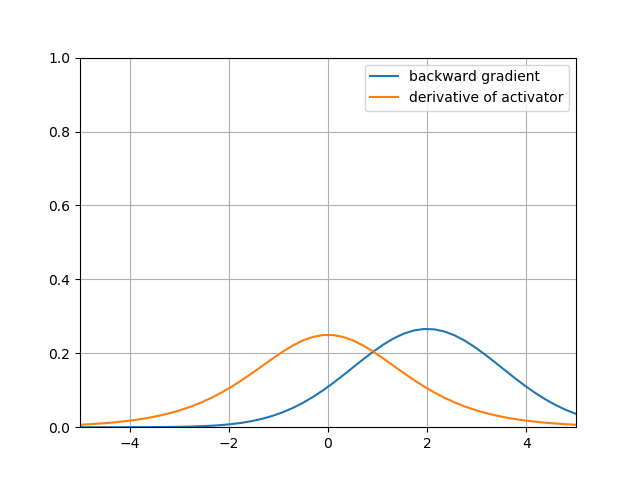
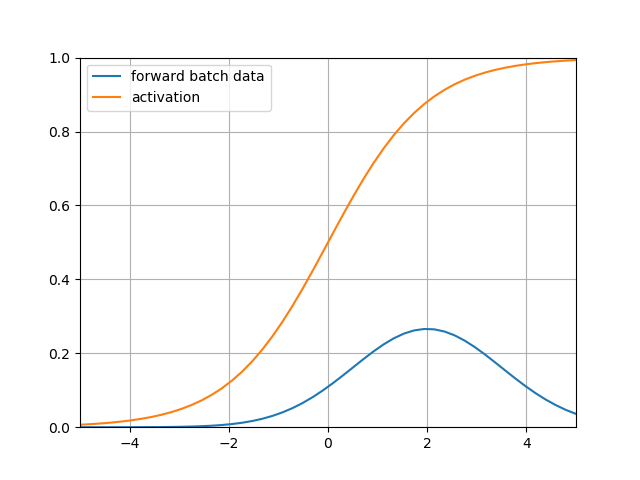
update

diff --git a/B-教学案例与实践/B6-神经网络基本原理简明教程/SourceCode/ch14-DNN/Level2_NormalDistribution.py b/B-教学案例与实践/B6-神经网络基本原理简明教程/SourceCode/ch14-DNN/Level2_NormalDistribution.py
@@ -34,7 +34,7 @@ if __name__ == '__main__':
     s = sigmoid(x)
     p2, = plt.plot(x, s)
     plt.grid()
-    plt.legend([p1,p2], ["forward", "activation"])
+    plt.legend([p1,p2], ["forward batch data", "activation"])
     plt.axis([-5, 5, 0, 1])
     plt.show()
 

diff --git a/B-教学案例与实践/B6-神经网络基本原理简明教程/14.2-批归一化.md b/B-教学案例与实践/B6-神经网络基本原理简明教程/14.2-批归一化.md
@@ -8,23 +8,23 @@ Copyright © Microsoft Corporation. All rights reserved.
 若随机变量X，服从一个位置参数为μ、尺度参数为σ的概率分布，且其概率密度函数为：
 
 $$
-f(x)={1 \over \sqrt{2 \pi} \sigma} e^{- {(x-\mu)^2} \over 2\sigma^2}
+f(x)={1 \over \sqrt{2 \pi} \sigma} e^{- {(x-\mu)^2} \over 2\sigma^2} \tag{1}
 $$
 
 则这个随机变量就称为正态随机变量，正态随机变量服从的分布就称为正态分布，记作：
 
 $$
-X \sim N(\mu,\sigma^2)
+X \sim N(\mu,\sigma^2) \tag{2}
 $$
 
 当μ=0,σ=1时，称为标准正态分布：
 
-$$X \sim N(0,1)$$
+$$X \sim N(0,1) \tag{3}$$
 
 此时公式简化为：
 
 $$
-f(x)={1 \over \sqrt{2 \pi}} e^{- {x^2} \over 2}
+f(x)={1 \over \sqrt{2 \pi}} e^{- {x^2} \over 2} \tag{4}
 $$
 
 下图就是三种（μ, σ）组合的函数图像：
@@ -32,53 +32,55 @@ $$
 <img src=".\Images\14\bn1.png">
 
 
-# 批归一化 Batch Normalization
+# 深度神经网络的挑战
 
 机器学习领域有个很重要的假设：IID独立同分布假设（独立同分布），就是假设训练数据和测试数据是满足相同分布的，这样就能做到通过训练数据获得的模型能够在测试集获得好的效果。
 
 在深度神经网络中，我们可以将每一层视为对输入的信号做了一次变换：
 
 $$
-Z = W \cdot X + B
+Z = W \cdot X + B \tag{5}
 $$
 
 经过这样的变换之后，神经网络的每一层所接受到的输入的分布就可能会发生变化，不再是输入的原始数据所适应的分布了。
 
-比如，在上图中，假设X是服从蓝色曲线的分布，经过上述公式后，有可能变成了绿色曲线的分布。
+比如，在上图中，假设X是服从蓝色曲线的分布，经过公式5后，有可能变成了绿色曲线的分布。
 
 标准正态分布的数值密度占比如下图所示：
 
 <img src=".\Images\14\bn2.png">
 
-有68%的值落在[-1,1]之间，有95%的值落在[-2,2]之间。再回忆一下激活函数Sigmoid的图像，在[-2,2]之外的区域，其导数值很小（小于0.1），导致反向传播的力度很小。
+有68%的值落在[-1,1]之间，有95%的值落在[-2,2]之间。再回忆一下激活函数Sigmoid的图像，在[-2,2]之外的区域，其导数值很小（小于0.1）:
+1. 激活后的值基本接近0或1了，饱和
+2. 导数数值小，反向传播的力度很小
 
 <img src=".\Images\8\sigmoid.png">
 
-如果
+在前向计算过程中，如果数据整体真的向右偏移了两个单位，在下图中可以看到，在[2,4]范围内的数据（蓝色），都处于激活函数的饱和区（黄色），对于训练就很不利了。
 
 <img src=".\Images\14\bn3.png">
 
-
-那BatchNorm的作用是什么呢？BatchNorm就是在深度神经网络训练过程中使得每一层神经网络的输入保持相同分布的。
-　　接下来一步一步的理解什么是BN。
-　　为什么深度神经网络随着网络深度加深，训练起来越困难，收敛越来越慢？这是个在DL领域很接近本质的好问题。很多论文都是解决这个问题的，比如ReLU激活函数，再比如Residual Network，BN本质上也是解释并从某个不同的角度来解决这个问题的。
-
 # 批归一化 Batch Normalization
 
-为什么要有Batch Normalization呢？这就会有一种什么问题呢？
+有的书翻译成归一化，有的翻译成正则化，英文简称为BN。
 
-   1. 随着网络的加深，在深层的层接收到的输入的分布和输入的分布可能差距很大，这会在一定程度上影响神经网络I.I.D.（独立同分布）的假设
-   2. 随着网络的加深，深层的层接受到的数据分布会因为每次训练导致的参数变化而不断变化，那么这些层就既需要去提取特征，又需要去适应不断变化的分布，加大了训练和收敛的难度
+在上一小节中，我们学习了权重值的初始化，是发生在神经网络的第一层。如果在深度神经网络的每一层，都可以有类似的手段，那么训练效果就会很理想。这就是批归一化的想法的来源。
 
-基于这样的考虑，batch normalization致力于将每一层的输入数据正则化成$N(0,1)$的分布，为了不影响网络本身的表达能力，以及可能一些层对非正态分布的数据表现更为优异，给予网络一定的调整能力，在正则化后，额外使用两个参数$\gamma$，$\beta$对分布进行了一定的线性变化。
+1. 随着网络的加深，在深层的层接收到的输入的分布和输入的分布可能差距很大，这会在一定程度上影响神经网络I.I.D.（独立同分布）的假设
 
-为什么采用batch的方式而不是对整个数据集进行正则化呢？这样的考虑更多的基于对计算力的考量，具体请参看[论文](https://arxiv.org/abs/1502.03167)
+2. 随着网络的加深，深层的层接受到的数据分布会因为每次训练导致的参数变化而不断变化，那么这些层就既需要去提取特征，又需要去适应不断变化的分布，加大了训练和收敛的难度
 
-下面我们来阐述一下具体的batch normalization的处理方法。
+深度神经网络随着网络深度加深，训练起来越困难，收敛越来越慢，这是个在DL领域很接近本质的问题。很多论文都是解决这个问题的，比如ReLU激活函数，再比如Residual Network，BN本质上也是解释并从某个不同的角度来解决这个问题的。
 
-### 前向过程
+Batch Normalization，简称BatchNorm。BatchNorm就是在深度神经网络训练过程中使得每一层神经网络的输入保持相同分布的，致力于将每一层的输入数据正则化成$N(0,1)$的分布。
 
-#### 符号表
+为了不影响网络本身的表达能力，以及可能一些层对非正态分布的数据表现更为优异，给予网络一定的调整能力，在正则化后，额外使用两个参数$\gamma$，$\beta$对分布进行了一定的线性变化。
+
+下面我们来阐述一下具体的batch normalization的处理方法。在实际的工程中，我们把BN当作一个层来看待。
+
+# 前向计算
+
+## 符号表
 
 |符号|数据类型|数据形状|
 |:---------:|:-----------:|:---------:|
@@ -97,15 +99,53 @@ $$
 ||||
 P.S. 无特殊说明，以下乘法为元素乘，即element wise的乘法
 
-在训练过程中，针对每一个batch数据，进行的操作是，将这组数据正则化，之后对其进行线性变换。
+在训练过程中，针对每一个batch数据，m是批的大小。进行的操作是，将这组数据正则化，之后对其进行线性变换。
 
 具体的算法步骤是：
 
-<img src=".\Images\14\1.png">
+$$
+\mu_B = {1 \over m}\sum_1^m x_i \tag{6}
+$$
+
+$$
+\sigma^2_B = {1 \over m} \sum_1^m (x_i-\mu_B)^2 \tag{7}
+$$
+
+$$
+n_i = {x_i-\mu_B \over \sqrt{\sigma^2_B + \epsilon}} \tag{8}
+$$
+
+$$
+z_i = \gamma n_i + \beta \tag{9}
+$$
+
+其中，$\gamma 和 \beta$是训练出来的，$\epsilon$是防止$\mu^2_B$为0时加的一个很小的数值，通常为1e-6。
+
+# 反向传播
+
+首先假设已知从上一层回传给BN层的梯度矩阵是：
+
+$$\delta = {dJ \over dz_i} \tag{10}$$
+
+则根据公式9，求$\gamma 和 \beta$的梯度：
+
+$${dJ \over d\gamma} = {dJ \over dz_i}{dz_i \over d\gamma}=\delta \cdot n_i \tag{11}$$
+
+$${dJ \over d\beta} = {dJ \over dz_i}{dz_i \over d\beta}=\delta \tag{12}$$
+
+
+# 测试和推理时的归一化方法
 
 在测试过程或推理时，我们只有一张或者几张图的数据，无法算出来正确的均值，因此，我们使用的均值和方差数据是在测试过程中样本值的平均。也就是：
 
-<img src=".\Images\14\2.png">
+$$
+E[x] = E[\mu_B]
+$$
+$$
+Var[x] = {m \over m-1} E[\sigma^2_B]
+$$
+
+
 
 如上所述，我们给出前向传播的代码
 
@@ -169,7 +209,7 @@ class batchNorm():
         return self.gamma * variable + self.beta
 ```
 
-### 反向过程
+# 反向过程
 
 在BN层的反向传播过程中，我们需要计算哪些东西呢？
 首先是两个可学习的变量$\gamma$,$\beta$的梯度，我们需要计算出对应的梯度信息来更新这两个变量，其次，我们需要计算出这一层的误差函数来继续进行传播。计算梯度信息的过程和全连接层计算的过程几乎完全一样，这里只给出计算公式：
@@ -248,21 +288,7 @@ def backward(self, error):
         return error
 ```
 
-$$
-\mu = {1 \over m}\sum_1^m x_i \tag{1}
-$$
 
-$$
-\sigma = {1 \over m} \sum_1^m (x_i-\mu)^2 \tag{2}
-$$
-
-$$
-n_i = {x_i-\mu \over \sqrt{\sigma + \epsilon}} \tag{3}
-$$
-
-$$
-z_i = \gamma n_i + \beta \tag{4}
-$$
 如果已知BN层的输入误差L，想要求BN层的输出误差，以便回传到前层。即求y_i对x_i的偏导。
 
 从正向公式中看：
@@ -307,3 +333,8 @@ $$
 $$
 {dJ \over dx_i} = {dJ \over d n_i} \cdot {1 \over \sqrt{\sigma + \epsilon}} + {dJ \over d\sigma} \cdot {2(x_i - \mu) \over m} + {dJ \over d\mu} \cdot {1 \over m} \tag{4}
 $$
+
+
+# 参考
+
+https://arxiv.org/abs/1502.03167
